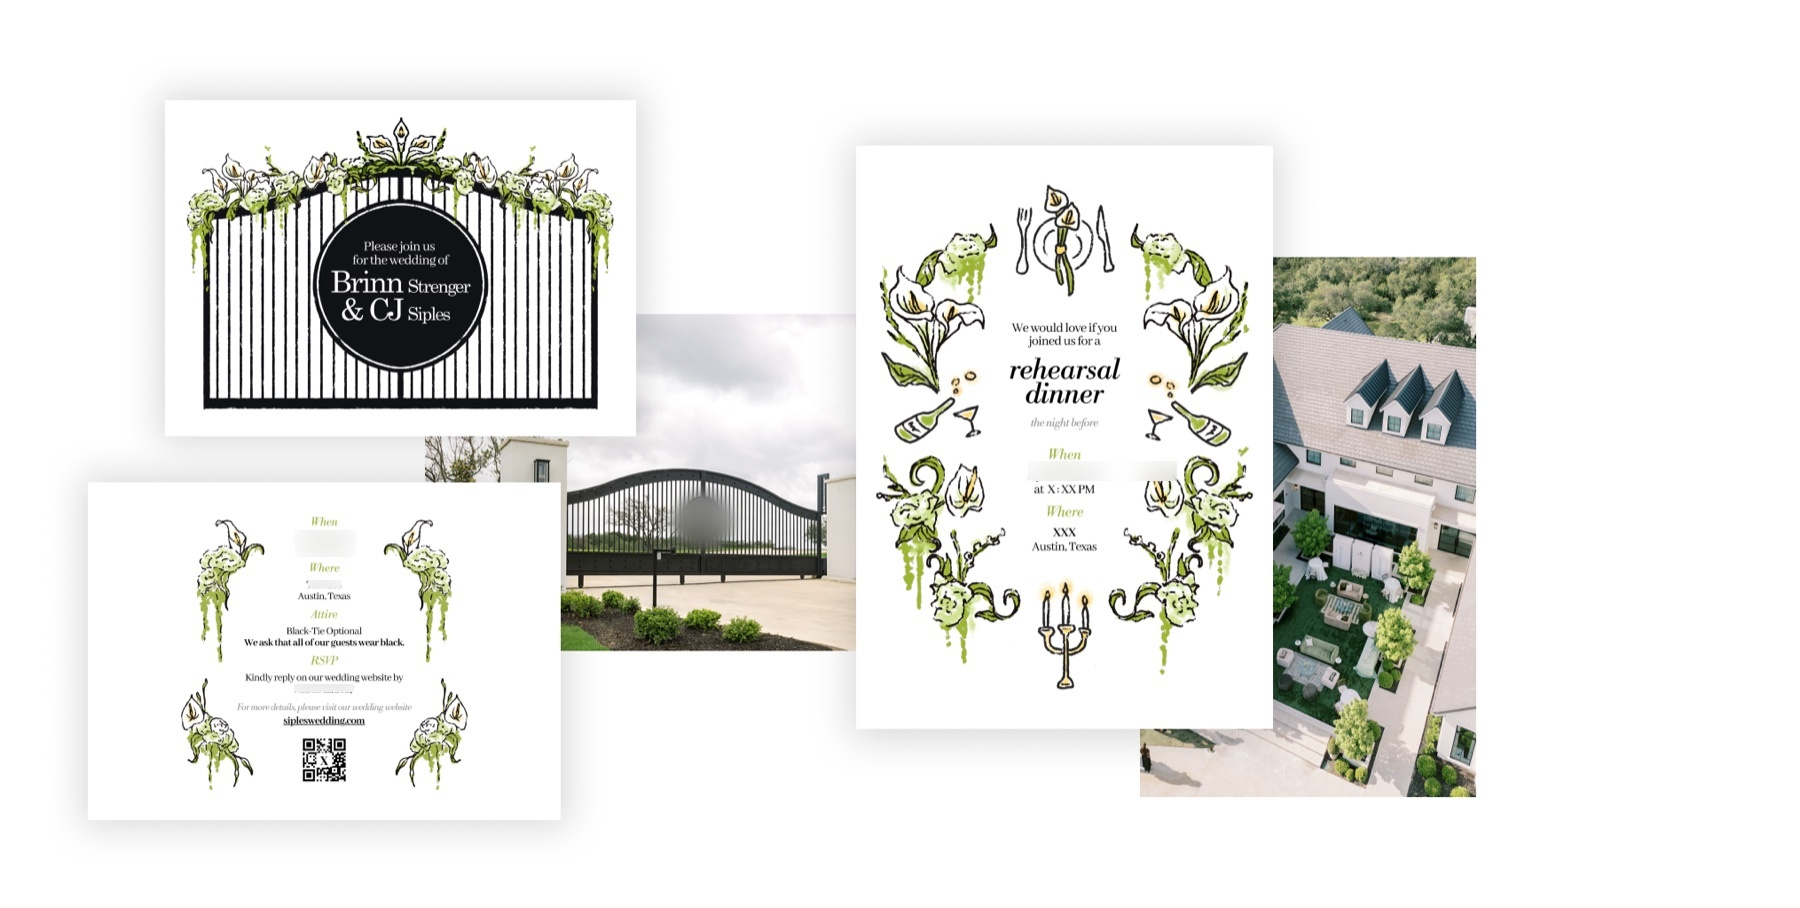
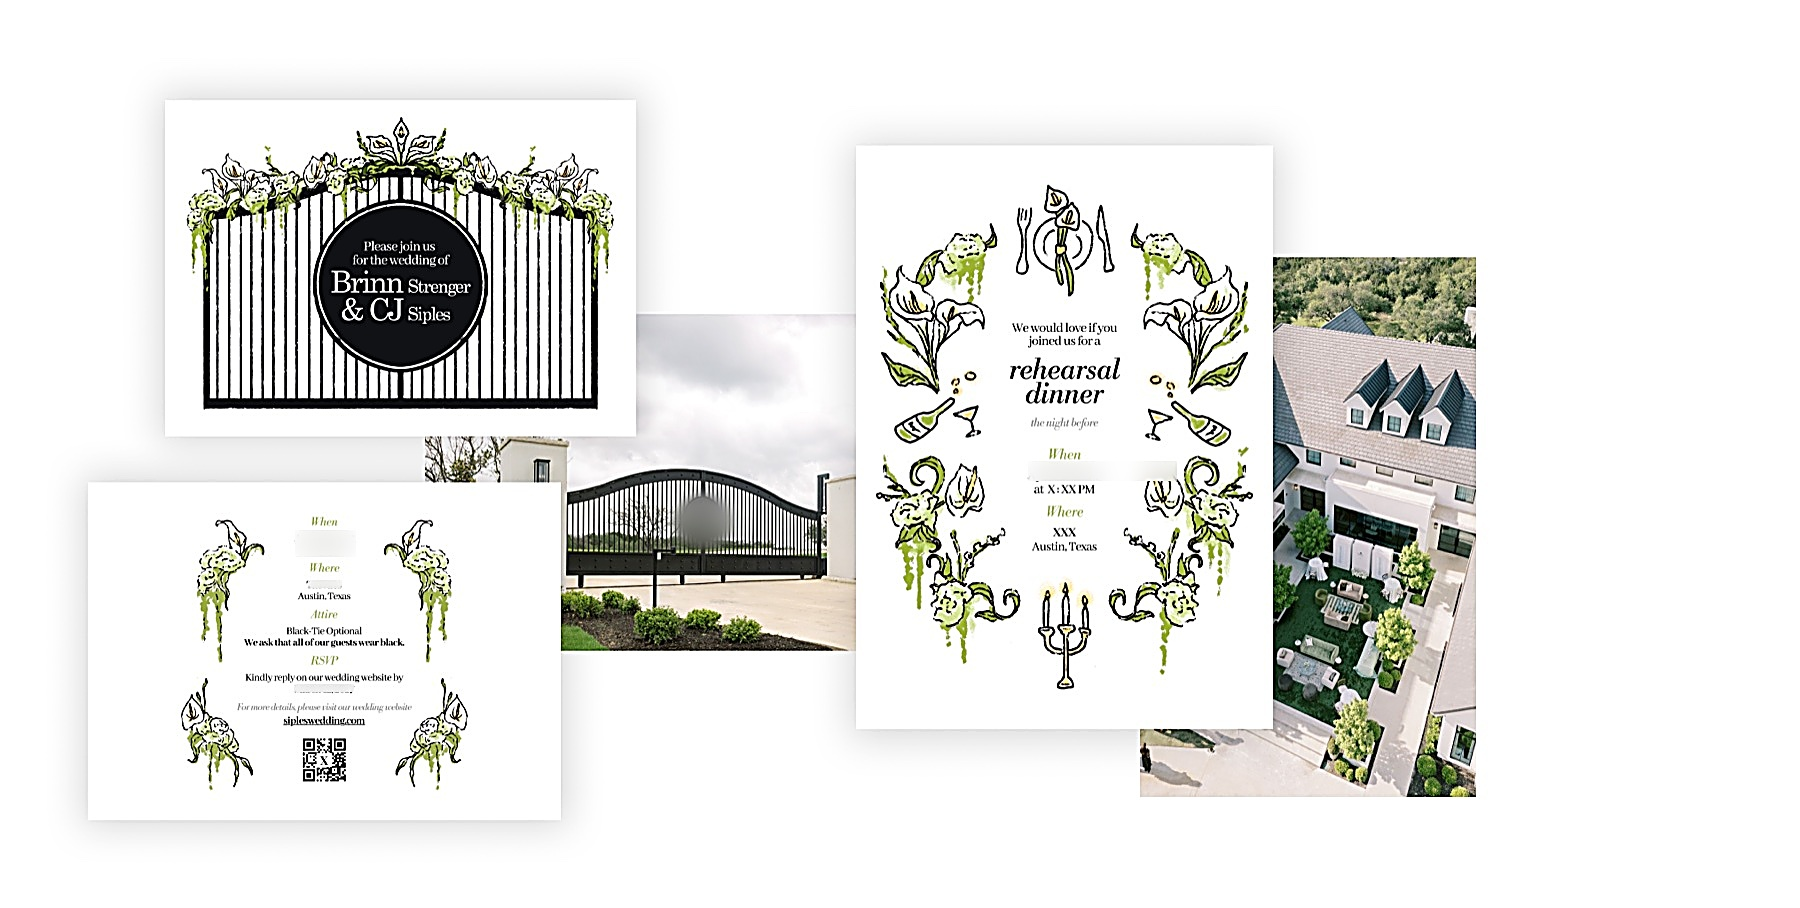
Brinn and CJ: enlarge and shift the RSVP panel right, sharpen its image
The RSVP + Rehearsal Dinner Card panel is now bigger than its siblings
and shifted toward the right edge of the content area (via a fixed-px
nudge rather than a percentage, since the clearance before the
decorative border is a fixed number of pixels regardless of viewport
width). Also apply an unsharp mask to behind-invitation.jpg so it holds
up better at the larger display size.

diff --git a/css/style.css b/css/style.css
@@ -367,6 +367,18 @@ nav.projects .nav-bottom {
   cursor: zoom-in;
 }
 
+/* bigger than the other two "behind the design" panels, and pushed to
+   the right instead of centered. The fixed-px nudge (not just a bigger
+   percentage) is deliberate: .project-section's right edge already sits
+   exactly far enough from the decorative border for the 96%-centered
+   siblings, and that clearance is a fixed number of px regardless of
+   viewport width, so a percentage-only overflow would grow with a wide
+   viewport and risk running under the border. */
+.bcj-rsvp-wrap {
+  width: calc(98% + 16px);
+  margin-left: calc(2% + 16px);
+}
+
 /* plain-copy panel titles (Moodboard, Save the dates, etc.) instead of
    the boxed figma-label lockup used elsewhere; .project-desc's own
    type styling is scoped to .project-main, which these panels sit

diff --git a/projects/brinn-cj-get-married.html b/projects/brinn-cj-get-married.html
@@ -67,7 +67,7 @@
       </div>
 
       <div class="project-section panel">
-        <div class="bcj-behind-wrap">
+        <div class="bcj-behind-wrap bcj-rsvp-wrap">
           <p class="project-desc bcj-panel-title">RSVP + Rehearsal Dinner Card</p>
           <img class="bcj-behind-img" src="../assets/B&amp;CJ/web/behind-invitation.jpg" alt="Behind the invitation suite: the venue's entrance gate and rehearsal dinner venue, next to the final invitation, details card, and rehearsal dinner card">
         </div>
